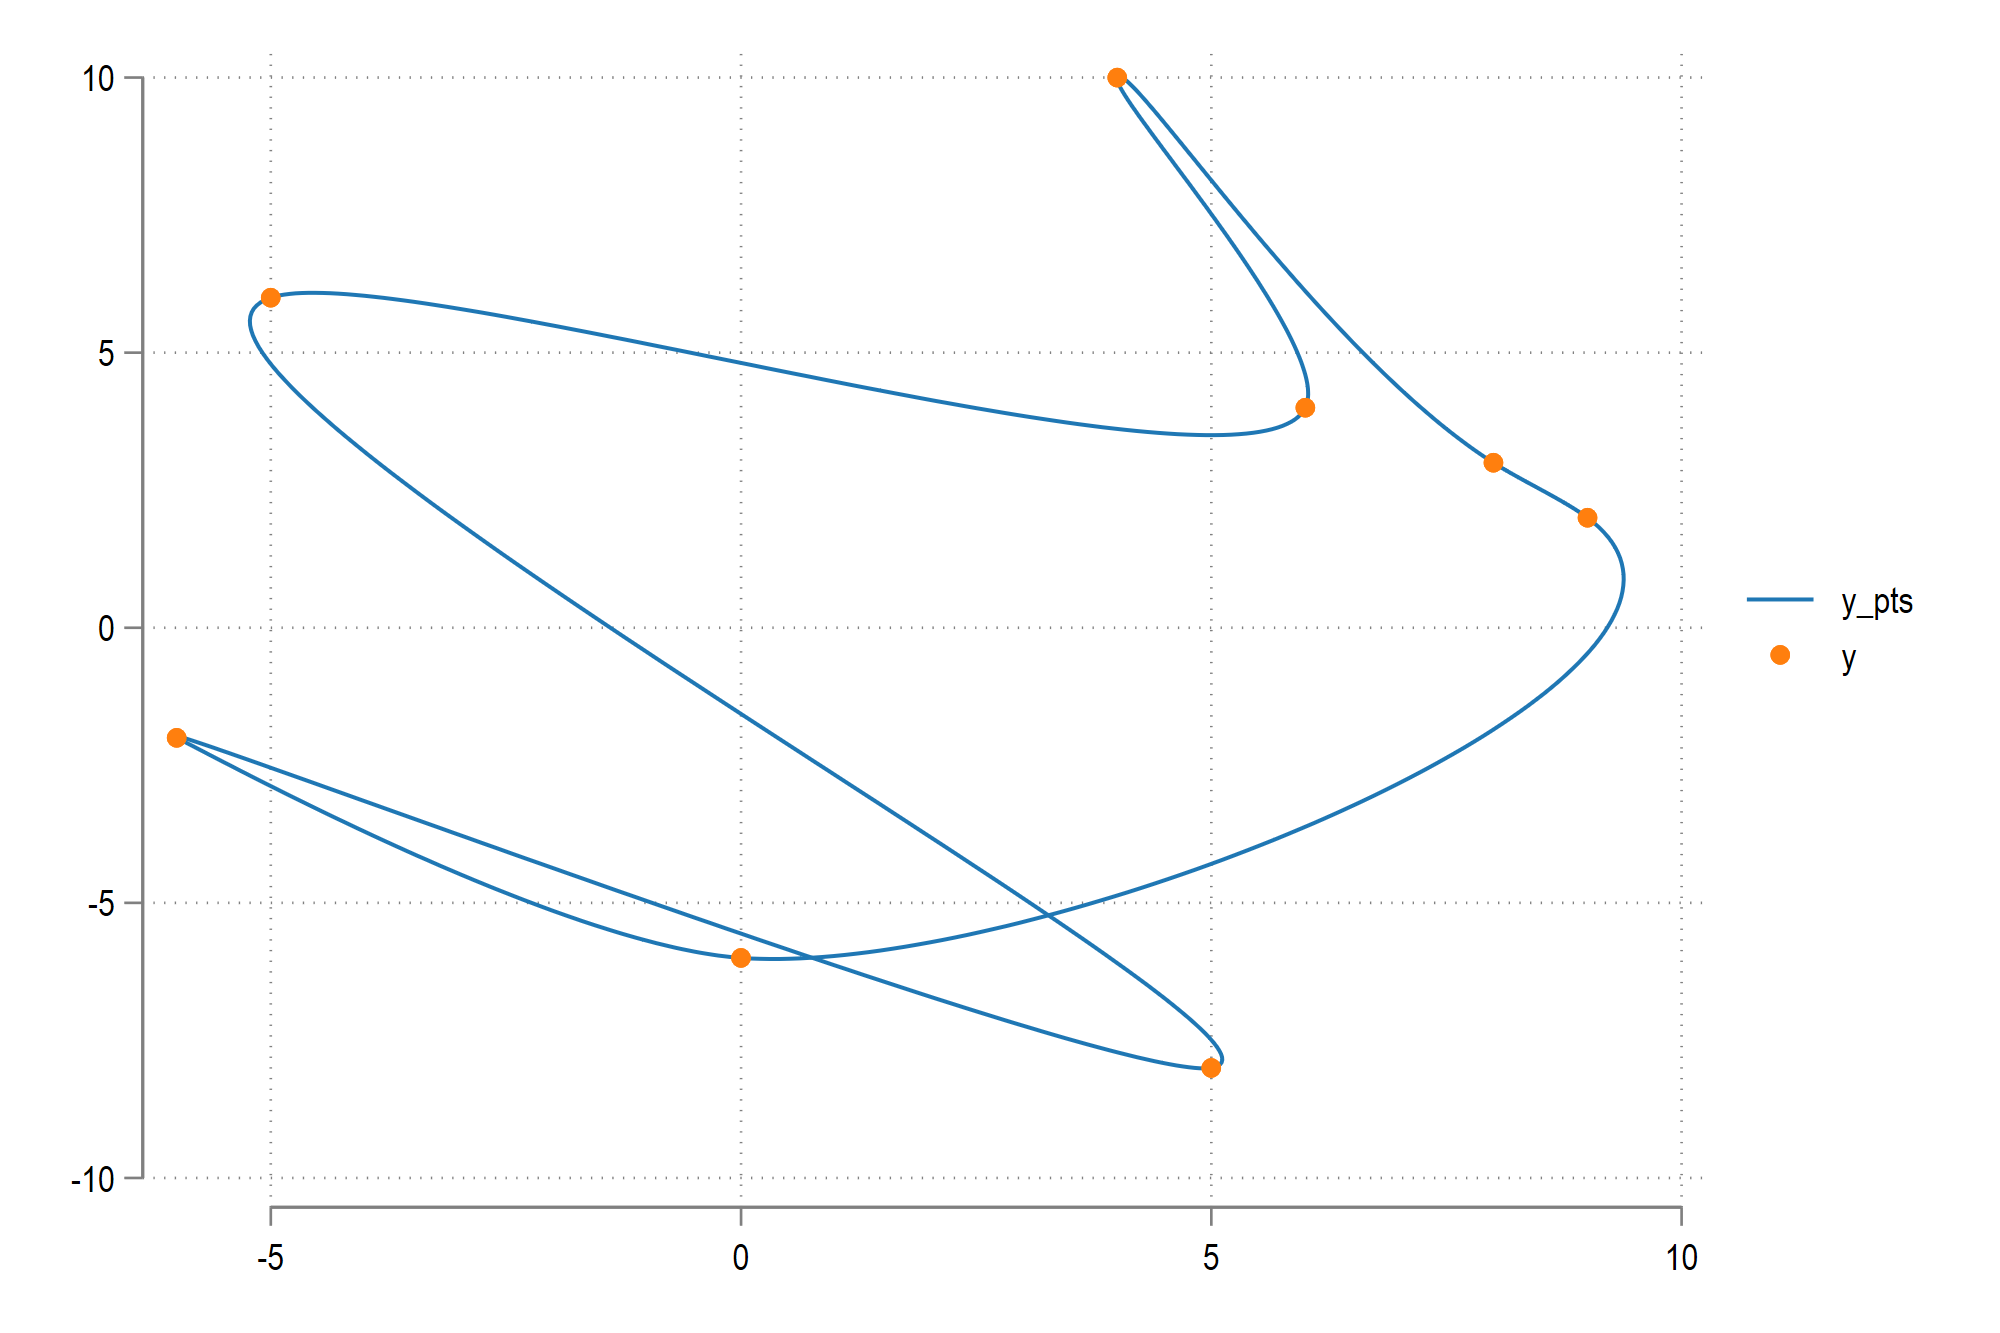
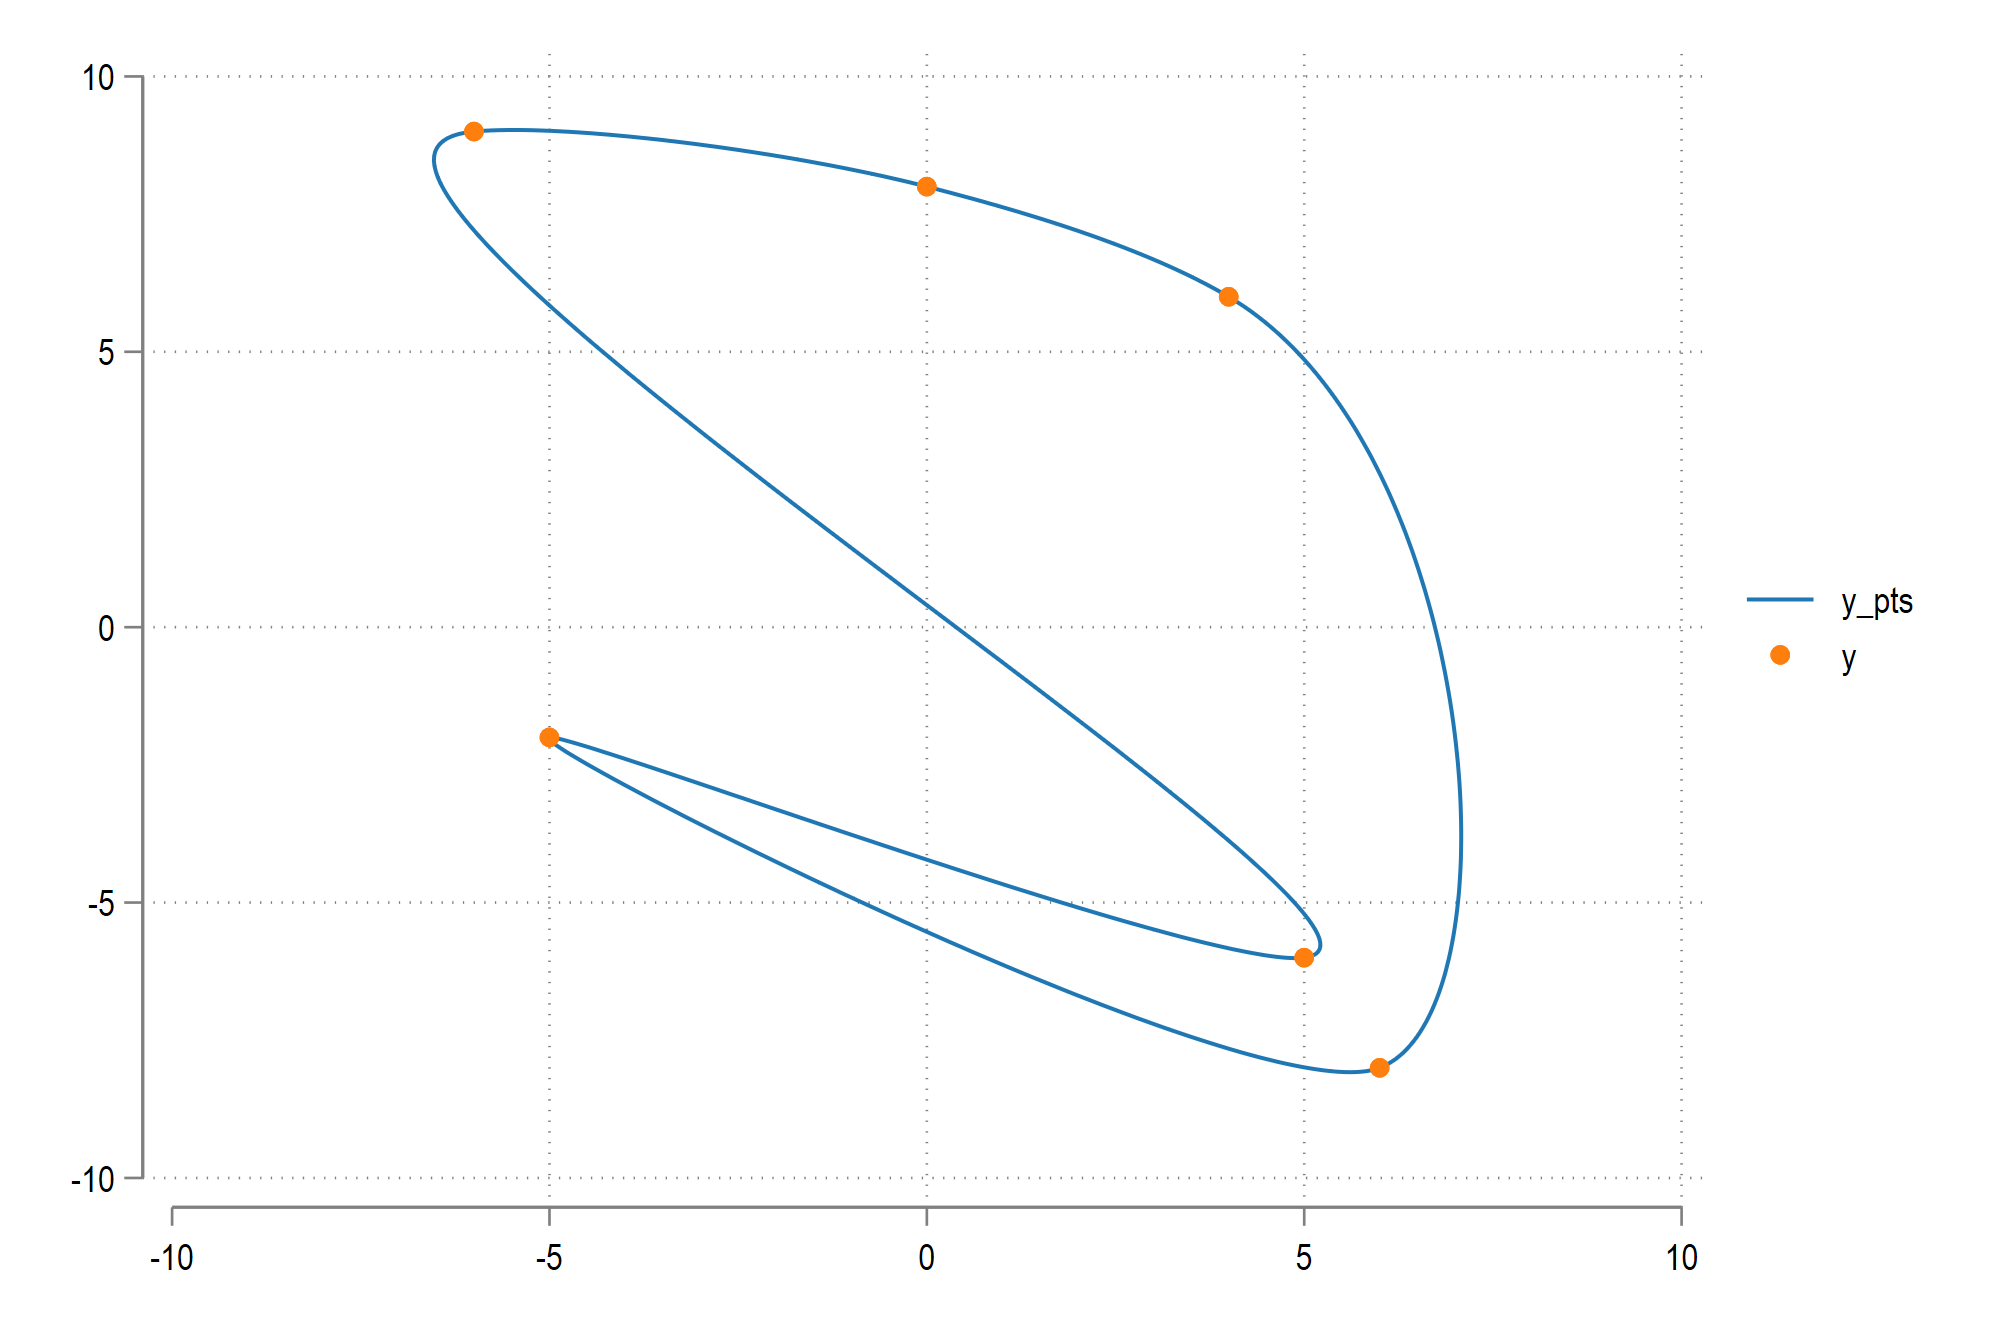
v1.0 beta

diff --git a/README.md b/README.md
@@ -68,7 +68,7 @@ See the help file `help splinefit` for details.
 Get the example data from GitHub:
 
 ```
-set obs 8
+set obs 6
 
 gen id = _n
 gen x = .
@@ -106,13 +106,13 @@ splinefit y x, close smooth(0)
 splinefit y x, close smooth(0.2)
 ```
 
-<img src="/figures/spline3.png" height="600">
+<img src="/figures/spline4.png" height="600">
 
 ```
 splinefit y x, close smooth(1)
 ```
 
-<img src="/figures/spline3.png" height="600">
+<img src="/figures/spline5.png" height="600">
 
 ### Additional options
 
@@ -120,7 +120,7 @@ splinefit y x, close smooth(1)
 splinefit y x, smooth(0.5) lc(black) mc(red) ms(1.2) legend(off) mlab(id) close
 ```
 
-<img src="/figures/spline3.png" height="600">
+<img src="/figures/spline6.png" height="600">
 
 
 ## Feedback
